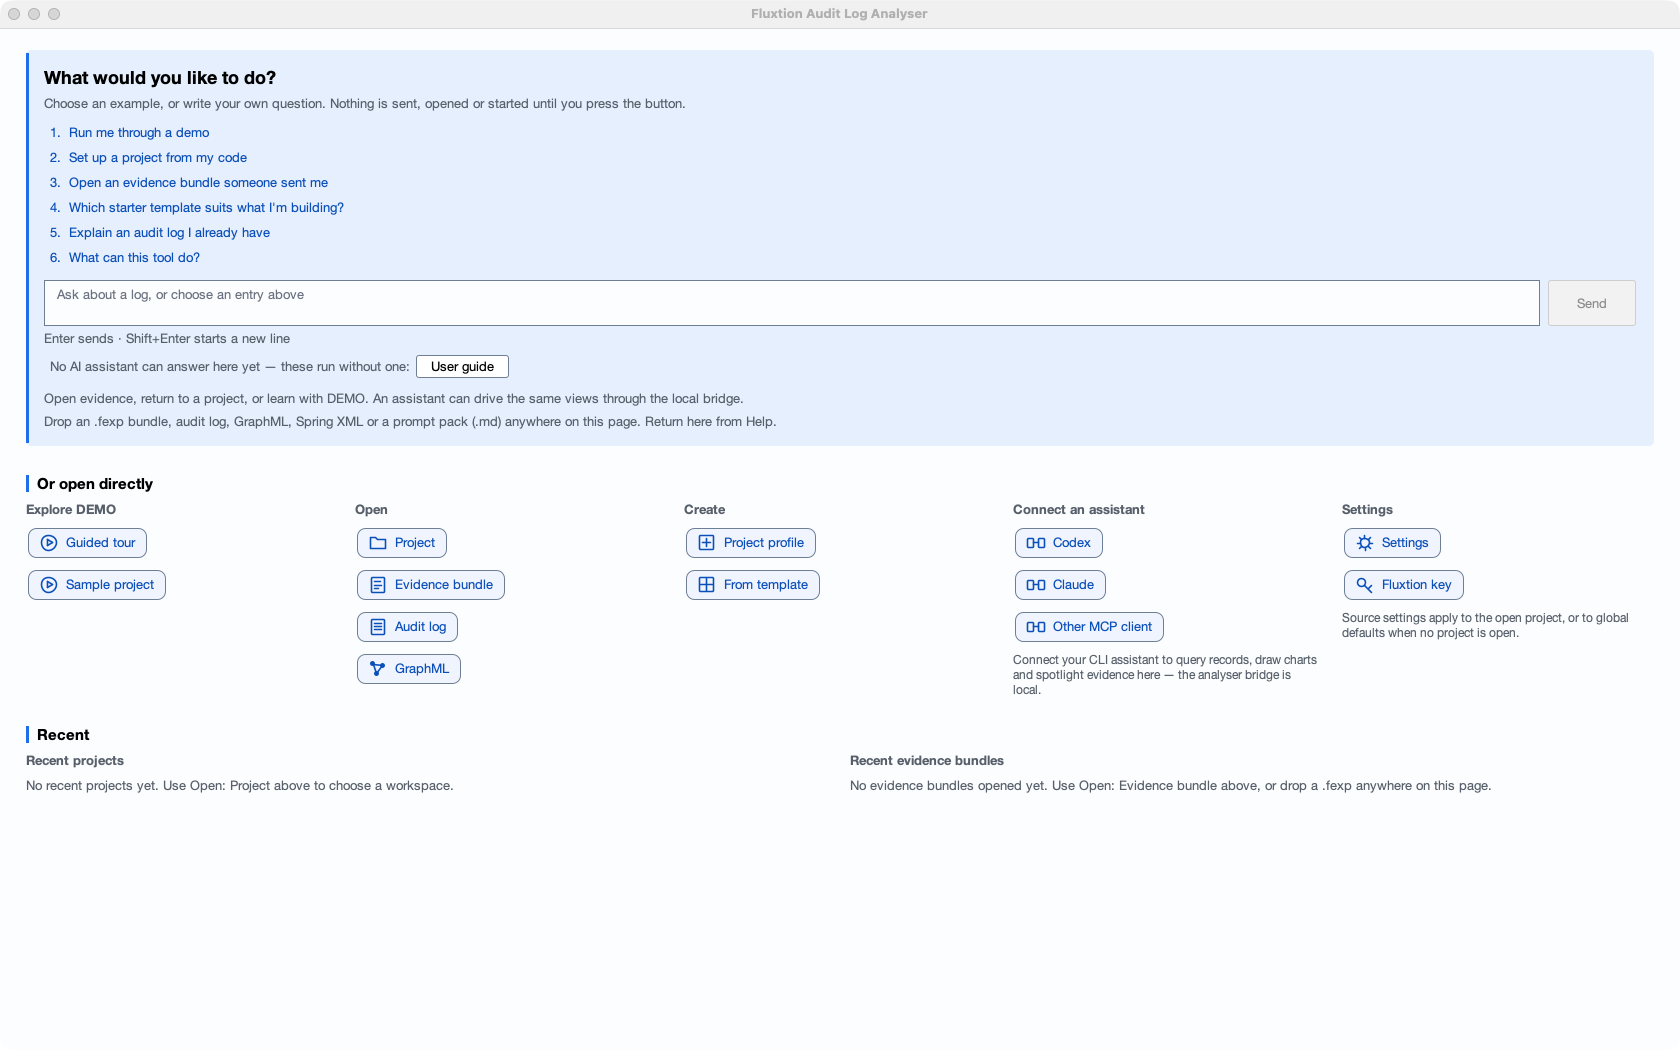
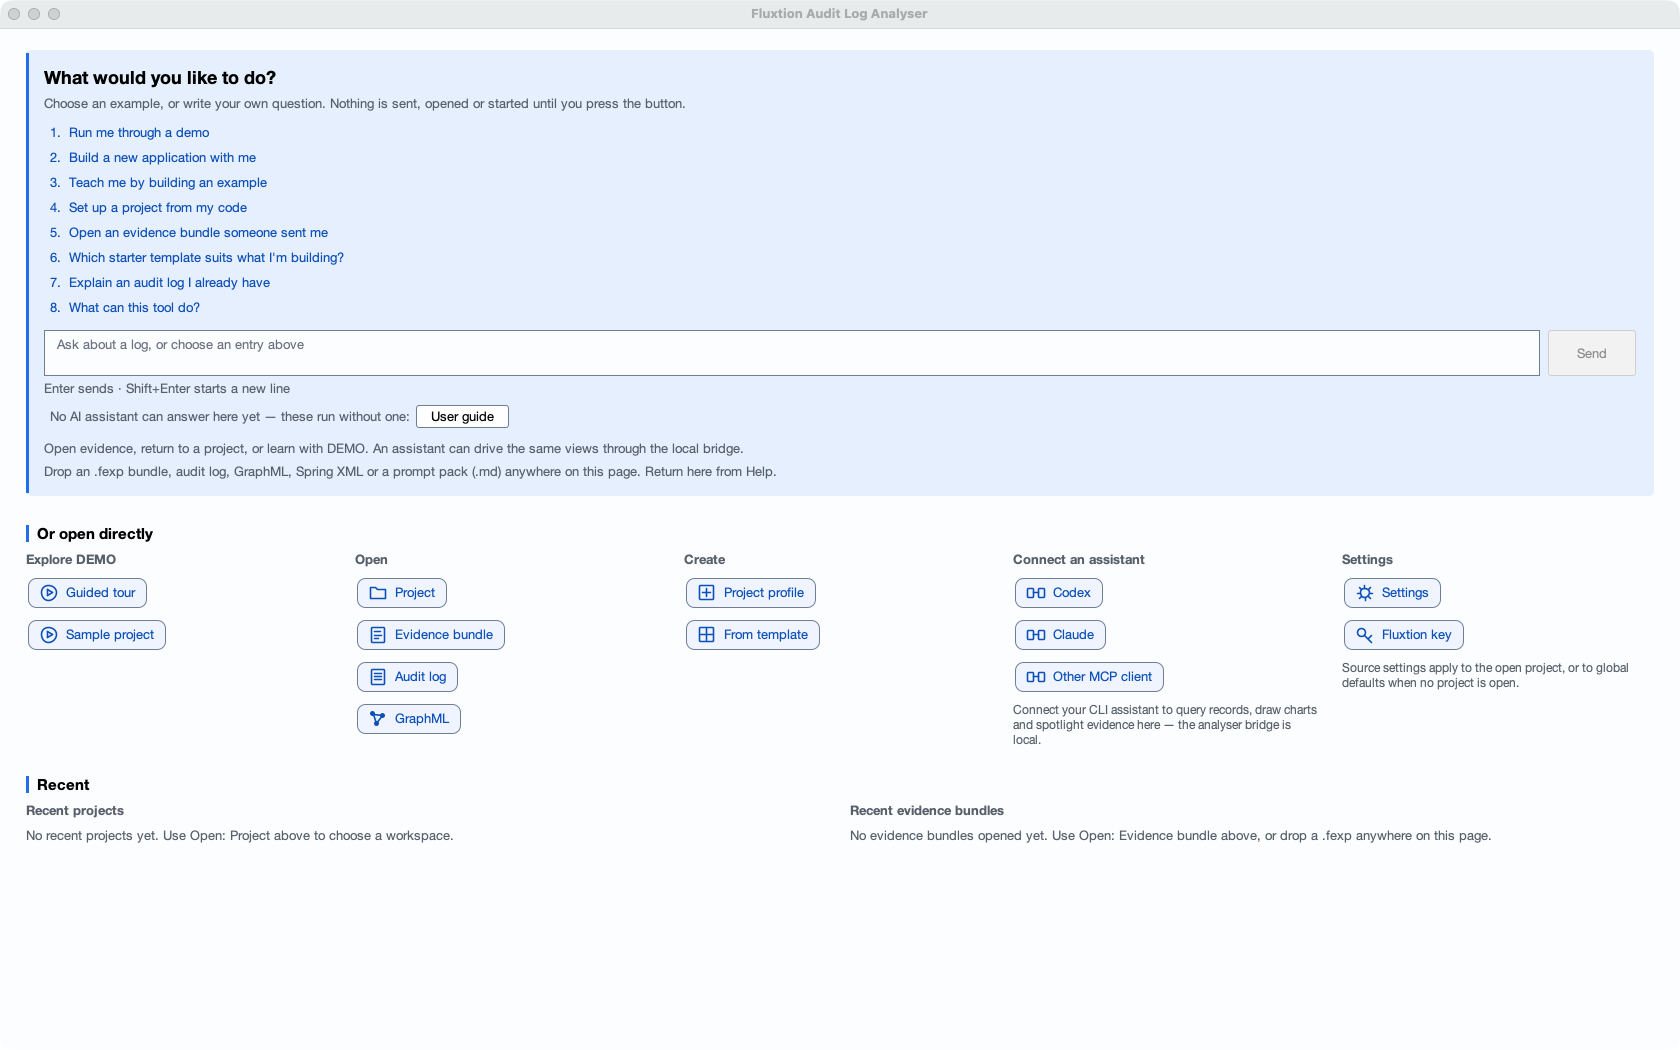
M74: every start-page entry in view; regenerate start-page.png
The list shows all its entries (at most nine) instead of six with a scroll
bar over Build and Teach's neighbours. start-page.png is regenerated by the
docs harness (window capture, isolated home, DEMO fixture) and was read.

Claude-Session: https://claude.ai/code/session_01Bhwkr5MmFDGufDuKy1iYWF

diff --git a/src/test/java/telamin/fluxtion/audit/analyser/analyser/ui/StartPromptViewTest.java b/src/test/java/telamin/fluxtion/audit/analyser/analyser/ui/StartPromptViewTest.java
@@ -187,6 +187,7 @@ class StartPromptViewTest {
             buttons.get(2).doClick();
             assertEquals(List.of("COPY_PROMPT|S1"), host.fallbacks);
             // the authoring and learning pathways work with no AI (owner priority, 2026-10-17)
+            assertEquals(8, v.promptList().getVisibleRowCount(), "every built-in entry in view, no scroll bar");
             v.choose(1);                                         // S7, Build
             assertEquals(List.of("New project from template…", "New project…", "Copy prompt"),
                     buttons(v.fallbacksPanel()).stream().map(JButton::getText).toList(), "Build: the existing dialogs");

diff --git a/src/main/java/telamin/fluxtion/audit/analyser/analyser/ui/StartPromptView.java b/src/main/java/telamin/fluxtion/audit/analyser/analyser/ui/StartPromptView.java
@@ -369,6 +369,8 @@ public final class StartPromptView extends JPanel {
         refusalRow.setVisible(state.packRefusal() != null);
         if (!rows.equals(renderedRows)) {
             renderedRows = rows;
+            // every entry in view, never a scroll bar over the eighth (at most nine: Alt+1–9)
+            list.setVisibleRowCount(Math.max(1, Math.min(9, rows.size())));
             String chosenId = chosen == null ? null : chosen.id();
             model.clear();
             for (Row r : rows) model.addElement(r);
